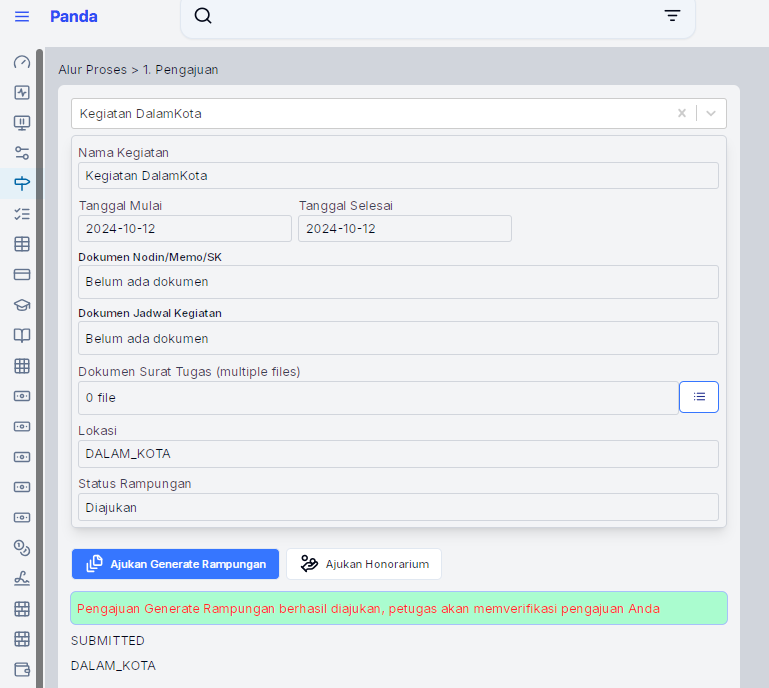
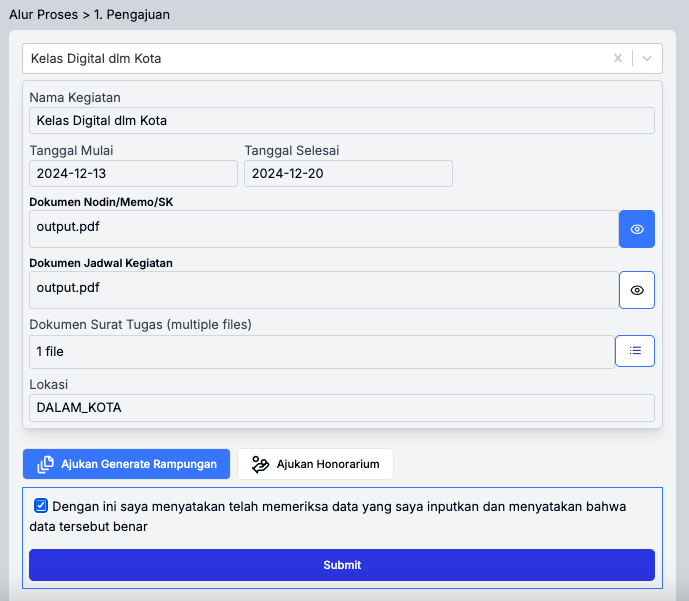
panduang pengguna - pengajuan

diff --git a/docs/panduan-pengguna.md b/docs/panduan-pengguna.md
@@ -28,7 +28,7 @@
         | **3**| Input Pencarian  |                                                         |
         | **4**| Satker Aktif     | Menunjukkan satker anggaran                             |
         | **5**| Tahun Anggaran   | Pilihan tahun anggaran yang dipilih dan aktif           |
-        | **6**| Icon Pengguna    | Ikon Pengguna, jika diklik akan menampilkan profil pengguna <br/> dan tombol signout           |
+        | **6**| Icon Pengguna    | Ikon Pengguna, jika diklik akan menampilkan profil pengguna dan tombol signout           |
         | **7**| Konten           | akan berisi halaman/tabel/form sesuai menu yang sedang aktif |
 
 ## **2.1 Login**
@@ -136,51 +136,156 @@
 
 ### **2.2.4 Pengajuan**
 
-  ![setup-pengajuan-kegiatan](images/2/2-004-1-1-formulir-setup-pengajuan.png)
+Formulir Pengajuan Kegiatan ini terdiri dari daftar kegiatan yang telah di setup sebelumnya.
 
+- Langkah:
+  
+  Pilih kegiatan yang akan di ajukan
+  
+  ![setup-pengajuan-kegiatan](images/2/2-004-1-1-formulir-setup-pengajuan.png)
   gambar 2.8. Formulir Setup Pengajuan Kegiatan
 
-#### **2.2.4.1 Pengajuan Kegiatan Dalam Kota**
+#### **2.2.4.1 Pengajuan Kegiatan di Dalam Kota**
+
+  Pada form ini terdapat list kegiatan yang telah di daftarkan sebelumnya pada formulir setup kegiatan, maka akan ditampilkan:
+
+  1. Nama kegiatan
+  2. Tanggal mulai, tanggal selesai
+  3. Dokumen Nodin/Memo/SK
+  4. Dokumen Jadwal Kegiatan
+  5. Dokumen Surat Tugas (multiple files)
+  6. Lokasi
+  7. Status Rampungan
+  8. Klik lambang `view` untuk melihat isi dokumen
 
   ![setup-pengajuan-kegiatan-dalam-kota-a](images/2/2-004-1-2-1-setup-pengajuan-dalam-kota.png)
+  gambar 2.9. Setup Pengajuan Dalam Kota <BR>
 
-  gambar 2.9. Setup Pengajuan Dalam Kota
+- Langkah 1:
+  Klik tombol `Ajukan Generate Rampungan`, maka akan ditampilkan form baru dibawahnya, klik `checklist` keterangan "Dengan ini saya menyatakan telah memeriksa data yang saya inputkan dan menyatakan bahwa data tersebut benar", kemudian `Submit`. Akan muncul "keterangan Pengajuan Generate Rampungan berhasil diajukan, petugas akan memverifikasi pengajuan Anda".
 
   ![setup-pengajuan-kegiatan-dalam-kota-b](images/2/2-004-1-2-2-generate-rampungan.png)
-
   gambar 2.10. Ajukan Generate Rampungan
+  
+<BR>
+
+- Langkah 2:
+  Klik tombol `Ajukan Honorarium`, maka akan ditampilkan formulir pengajuan honorarium.
 
   ![setup-pengajuan-kegiatan-dalam-kota-c](images/2/2-004-1-2-3-a-pengajuan-Honorarium.png)
-
   gambar 2.11. Ajukan Honorarium
+  <br>
+
+- Langkah 3:
+  Apabila belum ada jadwal bisa menambahkan jadwal:
+  klik tombol `Jadwal`, maka akan ditampilkan formulir jadwal kelas pengajar, isikan:
+        1. Tanggal
+        2. Kelas
+        3. Jumlah JP
+        4. Materi
+        5. Narasumber
+        6. Daftar Hadir
+        7. Surat/Nodin/Memo Undangan Narsum
+        8. Klik `Simpan`
 
   ![setup-pengajuan-kegiatan-dalam-kota-d](images/2/2-004-1-2-3-b-Jadwal-Kelas-Pengajar.png)
+  gambar 2.12. Jadwal Kelas Pengajar
 
-  gambar 2.12. Pilih Jadwal Kelas Pengajar
+<BR>
+  
+- Langkah 4:
+  Apabila belum ada kelas bisa menambahkan kelas:
+  klik tombol `Kelas`, maka akan ditampilkan formulir kelas pengajar, isikan:
+      1. Kode
+      2. Nama kelas
+      3. Pilih Nama Kegiatan
+      4. Klik `Tambah`
 
   ![setup-pengajuan-kegiatan-dalam-kota-e](images/2/2-004-1-2-3-c-Kelas.png)
+  gambar 2.13. Kelas
 
-  gambar 2.13. Pilih Kelas
+<BR>
+
+- Langkah 5:
+  Apabila belum ada materi bisa menambahkan materi:
+  klik tombol `Materi`, maka akan ditampilkan formulir materi, isikan:
+      1. Kode
+      2. Nama materi
+      3. Klik `Tambah`
 
   ![setup-pengajuan-kegiatan-dalam-kota-f](images/2/2-004-1-2-3-d-Materi.png)
+  gambar 2.14. Materi
 
-  gambar 2.14. Pilih Materi
+<br>
+
+- Langkah 6:
+  Apabila belum ada narasumber bisa menambahkan narasumber:
+  klik tombol `Narasumber`, maka akan ditampilkan formulir narasumber, isikan:
+      1. Nama
+      2. NIK, NIP, NPWP
+      3. Jabatan, Gol/Ruang, Eselon
+      4. Bank, Nama Rekening, Nomor Rekening
+      5. Email, No. Telepon,
+      6. Pernyataan beda rekening (apabila berbeda)
+      7. Klik `Tambah`
 
   ![setup-pengajuan-kegiatan-dalam-kota-g](images/2/2-004-1-2-3-e-Narasumber.png)
+  gambar 2.15. Narasumber
+<br>
 
-  gambar 2.15. Pilih Narasumber
+- Langkah 7:
+    Pilih Nama Pengajar Kelas, isikan:
+      1. Pilih `Jenis honorarium`
+      2. Masukan `Jumlah JP` dan klik `update Jenis dan JP`
+      3. Kemudian klik tombol `Ajukan`
+<br>      
+
+  ![setup-pengajuan-kegiatan-dalam-kota-g](images/2/2-004-1-3-2-pengajuan-honor.png)
+  gambar 2.16. Ajukan Honorarium
+<br>
+
+- Langkah 8:
+  Formulir ini dapat dilakukan setelah dilakukan `verifikasi Generate Rampungan`.
+  Klik tombol `Ajukan UH Dalam Negeri`, maka akan tampil form baru dan terdapat beberapa isian yang harus di isi:
+      1. laporan Kegiatan
+      2. Daftar Hadir
+      3. Dokumentasi
+      4. Rampungan yang di Stempel
+      5. Klik tombol `Ajukan`
 
   ![setup-pengajuan-kegiatan-dalam-kota-h](images/2/2-004-1-3-1-pengajuan-UH-dalam-negeri.png)
+  gambar 2.17. Setup Pengajuan UH Dalam Negeri
+<BR>
 
-  gambar 2.16. Setup Pengajuan UH Dalam Negeri
+#### **2.2.4.2 Pengajuan Kegiatan  di Luar Kota dan Luar Negeri**
 
-#### **2.2.4.2 Pengajuan Kegiatan Luar Kota**
+Langkah-langkah atau tahap pengisian formulir pada kegiatan di luar kota dan Luar Negeri sama seperti kegiatan dalam kota, yaitu:
+    1. Pilih `Nama Kegiatan`
+    2. `Generate Rampungan`
+    3. `Ajukan Honorarium`
 
   ![setup-pengajuan-kegiatan-luar-kota-a](images/2/2-004-1-4-1-setup-pengajuan-luar-kota.png)
-  
-  gambar 2.17. Setup Pengajuan Luar Kota
+  gambar 2.18. Setup Pengajuan Kegiatan
 
 ### **2.2.5 Verifikasi**
+
+Pada tahap ini terdapat 2 kegiatan yaitu `Verifikasi Generate Rampungan` dan `Verifikasi Honorarium`.
+
+#### **2.2.5.1 Verifikasi Generate Rampungan**
+- Langkah:
+      1. Pilih `Kegiatan`, makan akan ditampilkan data-data: Nama Kegiatan, Tanggal Mulai, Tanggal Selesai, Dokumen Nodin/Memo/SK, Dokumen Jadwal Kegiatan, Dokumen Surat Tugas (multiple files), Lokasi, Status Rampungan
+      2. Klik tombol `Verifikasi Generate Rampungan`
+      3. Akan tampil form dibawahnya, kemudian pilih `PPK`, Masukan keterangan `Pembebanan anggaran - Akun`, Keterangan `SPD`
+      4. Klik tombol `Generate SPD`, akan ditampilkan file PDF `SPD` untuk di download
+
+  ![verifikasi-kegiatan-a](images/2/2-004-1-4-3-verif-rampungan.png)
+  gambar 2.18. Verifikasi Generate Rampungan
+
+  ![verifikasi-kegiatan-b](images/2/2-004-1-4-4-spd.png) gambar 2.19. Contoh file PDF SPD
+
+#### **2.2.5.2 Verifikasi Honorarium**
+- Langkah:
+      1. Pilih `Kegiatan`, makan akan ditampilkan data-data: Nama Kegiatan, Tanggal Mulai, Tanggal Selesai, Dokumen Nodin/Memo/SK, Dokumen Jadwal Kegiatan, Dokumen Surat Tugas (multiple files), Lokasi, Status Rampungan
 
 ### **2.2.6 Daftar Nominatif**
 
